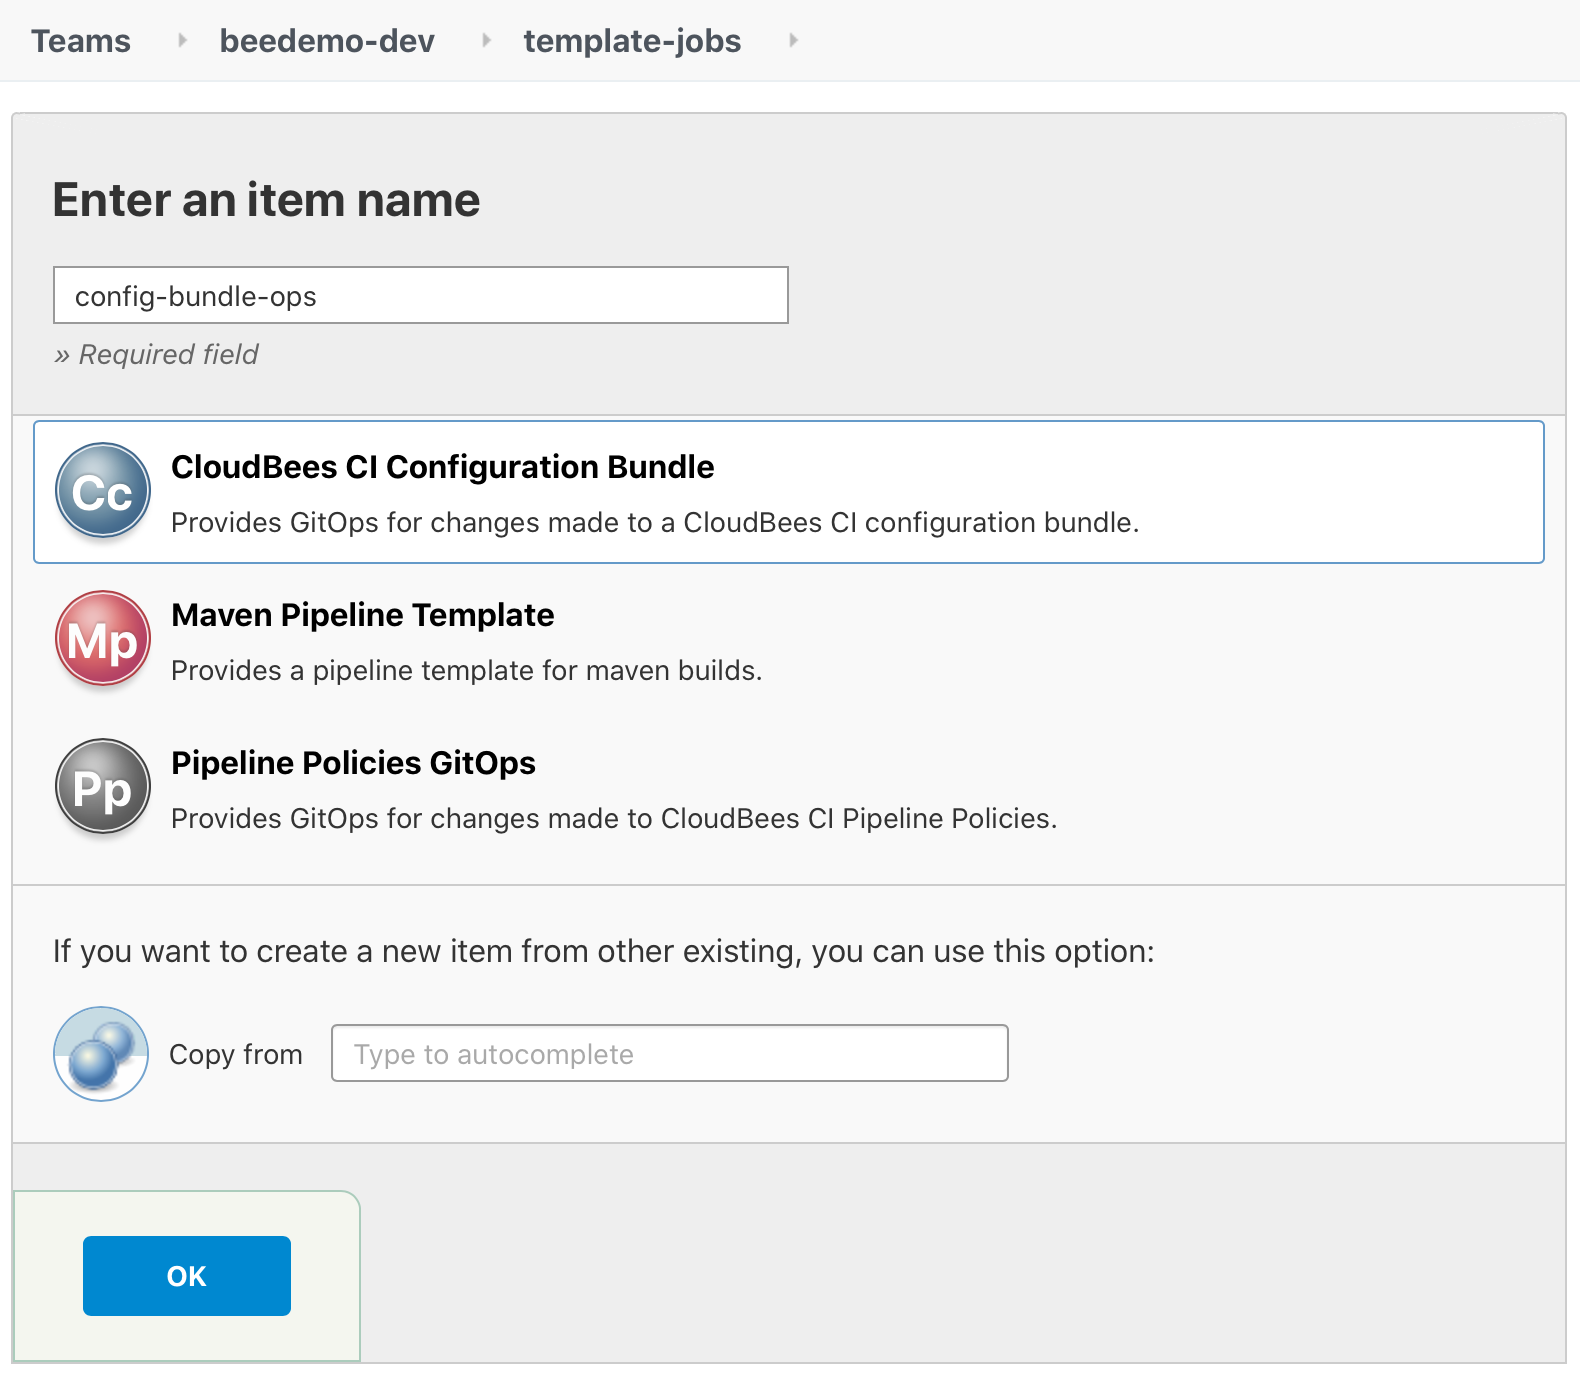
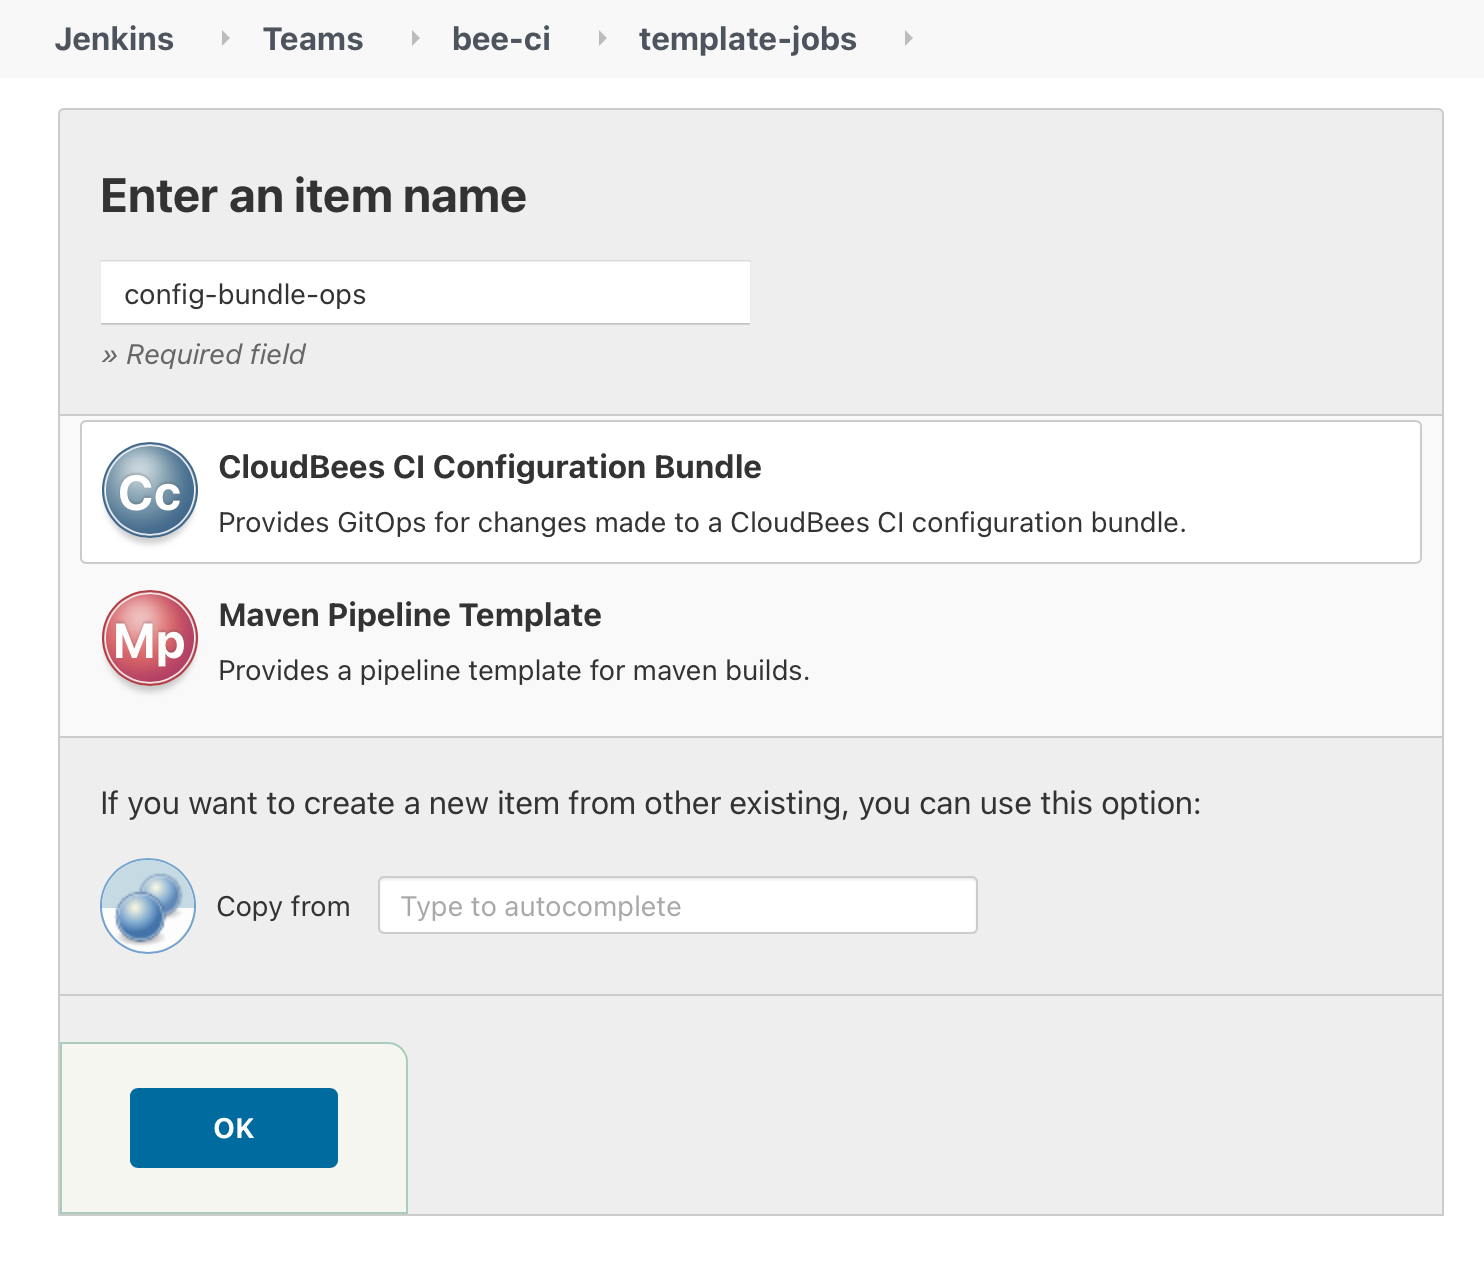
casc updates

diff --git a/labs/cloudbees-ci/content/module-1/casc.md b/labs/cloudbees-ci/content/module-1/casc.md
@@ -25,9 +25,10 @@ In this lab you will:
     - The `cloudbees-pipeline-policies` plugin, that we will need for the next lab, was added to the `plugins.yaml` file. ![Scan Log](pr-files-changed.png?width=50pc)
 10. Once you have reviewed the changes, click back on the **Conversation** tab and then click the green **Merge pull request** button and then the **Confirm merge** button. ![Merge PR](merge-pr.png?width=50pc)
 11. On the next screen click the **Delete branch** button.
-12. Navigate back to your CloudBees CI ***managed controller*** by clicking on the **Code** tab of your `cloudbees-ci-config-bundle` repository, click on the commit status (a small orange dot or green check), and then click on the **Details** link for the **continuous-integration/jenkins/branch** check. ![Commit Check link](commit-check-link.png?width=50pc)
-13. You will now have a Pipeline job for the `master` branch of your fork of the `cloudbees-ci-config-bundle` repository. Shortly after the Pipeline job completes navigate to the top-level of your ***managed controller***. ![Config Update Complete](config-update-complete.png?width=50pc)
-14. Click on the **monitor** link of your CloudBees CI ***managed controller*** (if you don't see a monitor alert then refresh your browser as it may take a minute or two for it to appear) and you will see that a new version of the configuration bundle is available - click on the **Reload Configuration** button and on the next screen click the **Yes** button to apply the updated configuration bundle. NOTE: If you do not see the **Reload Configuration** button then click the **Safe Restart** button. ![Reload CasC](reload-config.png?width=50pc)
-15. Navigate back to the top-level of your ***managed controller***. Among other configuration changes, you will now see a link for **Pipeline Polices** in the left navigation menu and an updated system message for your CloudBees CI ***managed controller***. ![New CasC applied](casc-update-applied.png?width=50pc)
+12. Navigate back to your CloudBees CI ***managed controller*** and then navigate to the ***master*** branch job of your **config-bundle-ops** Multi-branch Project in the **template-jobs** folder.
+13. You will now have a Pipeline job for the `master` branch of your fork of the `cloudbees-ci-config-bundle` repository. After the Pipeline job completes navigate to the top-level of your ***managed controller***. ![Config Update Complete](config-update-complete.png?width=50pc)
+14. Click on the **Manage Jenkins** link in the left navigation menu and then click on the **CloudBees Configuration as Code bundle** configuration link. ![CloudBees Configuration config](config-bundle-system-config.png?width=50pc)
+15.  On the next screen, click on the **Bundle Update** link and you should see that a new version of the configuration bundle is available. Click the **Reload Configuration** button and on the next screen click the **Yes** button to apply the updated configuration bundle. *Note: If you don't see the new version available then click the **Check for Updates** button.* (new-bundle-available.png?width=50pc)
+16. Navigate back to the top-level of your ***managed controller***. Among other configuration changes, you will now see a link for **Pipeline Polices** in the left navigation menu and an updated system message for your CloudBees CI ***managed controller***. ![New CasC applied](casc-update-applied.png?width=50pc)
 
 **For instructor led workshops please <a href="https://cloudbees-days.github.io/cloudbees-field-workshops/cloudbees-ci/#casc-lab-review">return to the workshop slides</a>**

diff --git a/labs/cloudbees-ci/content/module-1/pipeline-template-catalog.md b/labs/cloudbees-ci/content/module-1/pipeline-template-catalog.md
@@ -46,7 +46,7 @@ The [CloudBees CI Folders Plus plugin](https://docs.cloudbees.com/docs/cloudbees
 
 1. Navigate back to the top-level of your CloudBees CI ***managed controller*** (Jenkins instance) and click on **New Item** in the left menu.
 2. For the **item name** enter ***template-jobs***, select **Folder** (be sure to select **Folder** and not **Folder Template**) as the item type and then click the **OK** button. ![Restricted Folder Item](new-folder-click.png?width=50pc)
-3. Scroll to the bottom of the folder configuration and click on **Restrict the kind of children in this folder** - a [CloudBees Folders Plus](https://docs.cloudbees.com/docs/cloudbees-core/latest/cloud-secure-guide/folders-plus) feature - and then select **CloudBees CI Configuration Bundle**, **Maven Pipeline Template** and **Pipeline Policies GitOps** (the template jobs we will be using throughout the rest of the workshop) - and then hit the **Save** button. ![Restricted Folder Items](restricted-items-check.png?width=40pc)
-4. Now when you click on **New Item** in the **template-jobs** folder you will be restricted to the **CloudBees CI Configuration Bundle**, **Maven Pipeline Template** and **Pipeline Policies GitOps** item types. This reduces confusion of what job types to use and enforces the use of approved templates. ![Restricted Folder New Item](restricted-folder-new-item.png?width=30pc)
+3. Scroll to the bottom of the folder configuration and click on **Restrict the kind of children in this folder** - a [CloudBees Folders Plus](https://docs.cloudbees.com/docs/cloudbees-core/latest/cloud-secure-guide/folders-plus) feature - and then select **CloudBees CI Configuration Bundle** and **Maven Pipeline Template** (the template jobs we will be using throughout the rest of the workshop) - and then hit the **Save** button. ![Restricted Folder Items](restricted-items-check.png?width=40pc)
+4. Now when you click on **New Item** in the **template-jobs** folder you will be restricted to the **CloudBees CI Configuration Bundle** and **Maven Pipeline Template** item types. This reduces confusion of what job types to use and enforces the use of approved templates. ![Restricted Folder New Item](restricted-folder-new-item.png?width=30pc)
 
 **For instructor led workshops please <a href="https://cloudbees-days.github.io/cloudbees-field-workshops/cloudbees-ci/#pipeline-template-catalog-overview">return to the workshop slides</a>**   

diff --git a/labs/cloudbees-ci/content/module-1/rbac-casc.md b/labs/cloudbees-ci/content/module-1/rbac-casc.md
@@ -1,0 +1,14 @@
+---
+title: "CloudBees CI Role-Based Access Control"
+chapter: false
+weight: 3
+---
+
+Role-Based Access Control (RBAC) for CloudBees CI provides the ability to restrict access and delegate administration. And when combined with CloudBees CI CasC you have complete audit history of any changes to access control captured by your source control tool such as Git.
+
+For the purpose of this lab we will be using the Jenkins database security realm but CloudBees CI supports number of external security realms, such as LDAP, Active Directory and SAML based security realms.
+
+>NOTE: Using CasC for RBAC requires that you allow managed controllers to opt-out of inheriting the Operations Center authorization strategy and you will no longer be able to inherit roles or groups from Operations Center.
+
+
+

diff --git a/labs/cloudbees-ci/content/module-1/pipeline-policies.md b/labs/cloudbees-ci/content/module-1/pipeline-policies.md
@@ -1,7 +1,7 @@
 ---
 title: "Pipeline Policies"
 chapter: false
-weight: 3
+weight: 4
 ---
 
 Pipeline Policies are runtime validations that work for both scripted and declarative pipelines and provide administrators a way to include warnings for or block the execution of pipelines that do not comply with the policies applied to your ***managed controller***.
